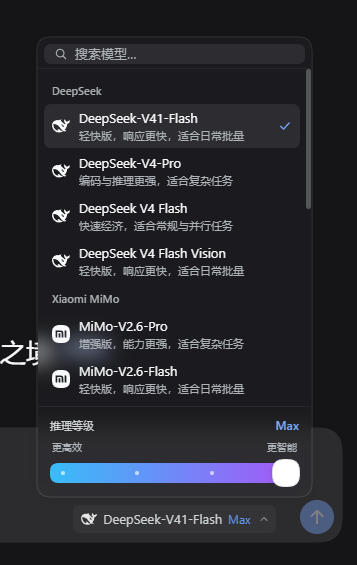
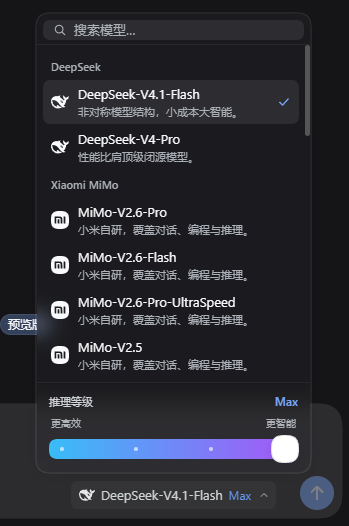
docs: refresh the screenshots
Hero trigger shot, the popover, and the settings page, all re-captured from the
current build. Widths follow the new pixel sizes rather than scaling them up:
trigger.png is 860px wide and now renders at 720 instead of 470, while panel.png
(349) and settings.png (588) render at their native size.

Also carries the model-copy rewrite from 04604b9, which was never pushed.

diff --git a/README.md b/README.md
@@ -14,7 +14,7 @@
 </div>
 
 <div align="center">
-  <img alt="模型席位：触发器" src="./docs/screenshots/trigger.png" width="470" />
+  <img alt="模型席位：触发器" src="./docs/screenshots/trigger.png" width="720" />
 </div>
 
 ## 📑 目录
@@ -77,7 +77,7 @@ git clone https://github.com/toyvfish/dsh-model-seat.git
 触发器上同时显示品牌图标、模型名和当前推理等级。背景色、不透明度、图标颜色、模型名字体色、推理等级字体色，都是独立可调的。
 
 <div align="center">
-  <img alt="模型席位：触发器" src="./docs/screenshots/trigger.png" width="470" />
+  <img alt="模型席位：触发器" src="./docs/screenshots/trigger.png" width="720" />
 </div>
 
 ### 弹出面板：分组、说明、搜索、滑条
@@ -85,7 +85,7 @@ git clone https://github.com/toyvfish/dsh-model-seat.git
 按提供方分组，每行带品牌图标和一句中文简介；顶部搜索框支持按模型名、说明、提供方过滤；底部是推理等级滑块。
 
 <div align="center">
-  <img alt="弹出面板" src="./docs/screenshots/panel.png" width="390" />
+  <img alt="弹出面板" src="./docs/screenshots/panel.png" width="349" />
 </div>
 
 
@@ -99,7 +99,7 @@ git clone https://github.com/toyvfish/dsh-model-seat.git
 | 推理等级滑块 | 启用渐变 · 单色 · 渐变起始色 / 结束色 |
 
 <div align="center">
-  <img alt="设置页" src="./docs/screenshots/settings.png" width="640" />
+  <img alt="设置页" src="./docs/screenshots/settings.png" width="588" />
 </div>
 
 
